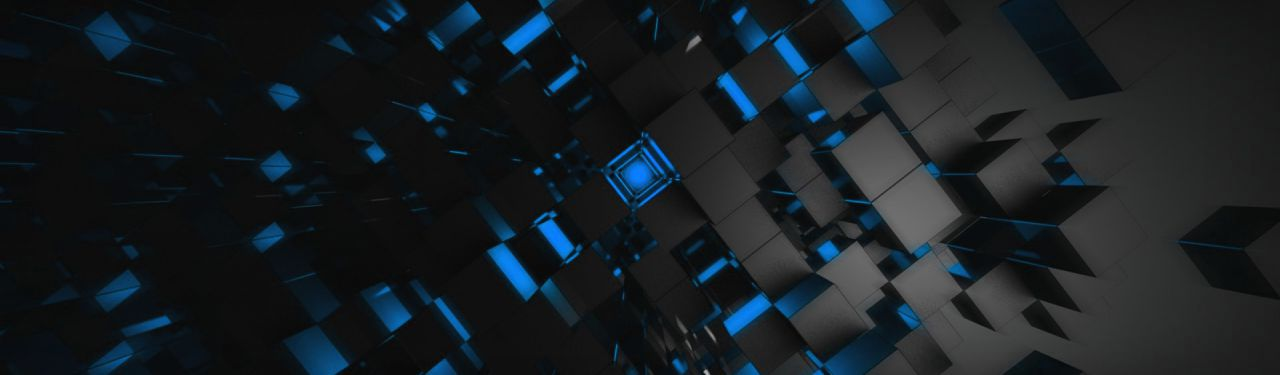
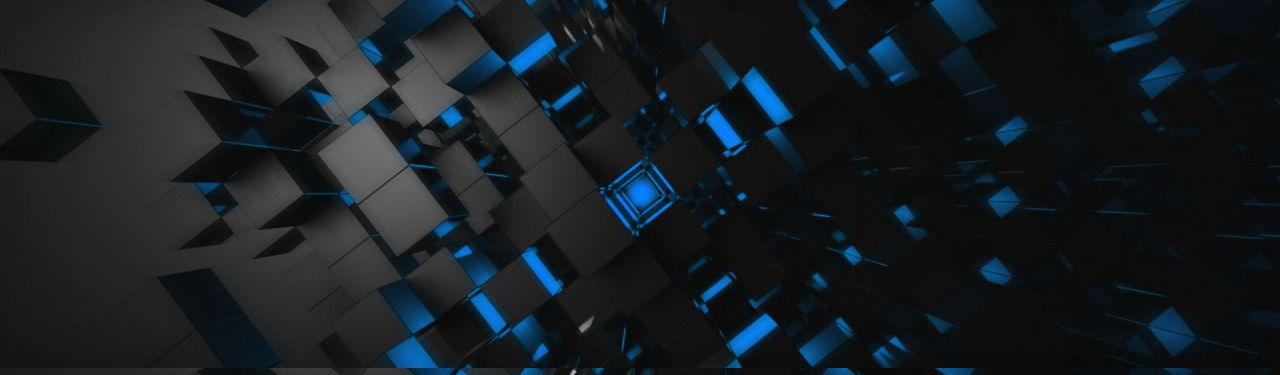
cambio de imagen del header jumbotron cambio de estilos en la fuente de los nav y hovers

diff --git a/css/styles.css b/css/styles.css
@@ -12,34 +12,34 @@ body {
   border-color: #080808;
 }
 .navbar-inverse .navbar-brand {
-  color: #45C2C8;
+  color: #FFFFFF;
 }
-.navbar-inverse .navbar-brand:hover,
-.navbar-inverse .navbar-brand:focus {
-  color: #fff;
-  background-color: transparent;
+.navbar-inverse .navbar-brand:hover
+ {
+  color: #FFF;
+  background-color: #3671B2;
 }
 .navbar-inverse .navbar-text {
   color: #9d9d9d;
 }
 .navbar-inverse .navbar-nav > li > a {
-  color: #9d9d9d;
+  color: #F7E9E9;
 }
-.navbar-inverse .navbar-nav > li > a:hover,
-.navbar-inverse .navbar-nav > li > a:focus {
-  color: #fff;
-  background-color: transparent;
+.navbar-inverse .navbar-nav > li > a:hover
+{
+  color: #FFF;
+  background-color: #3671B2;
 }
 .navbar-inverse .navbar-nav > .active > a,
 .navbar-inverse .navbar-nav > .active > a:hover,
 .navbar-inverse .navbar-nav > .active > a:focus {
-  color: #fff;
-  background-color: #080808;
+  color: #FFF;
+  background-color: #3671B2;
 }
 .navbar-inverse .navbar-nav > .disabled > a,
 .navbar-inverse .navbar-nav > .disabled > a:hover,
 .navbar-inverse .navbar-nav > .disabled > a:focus {
-  color: #444;
+  color: #908787;
   background-color: transparent;
 }
 .navbar-inverse .navbar-toggle {
@@ -112,26 +112,13 @@ fieldset[disabled] .navbar-inverse .btn-link:focus {
 
 /*Jumbotron*/
 .jumbotron{
-  background: url("../img/header2.jpg") no-repeat;
+  background: url("../img/header3.jpg") no-repeat;
 	color:#fff;
 	padding: 50px 10px;
   height: 375px;
-  background-size: 1425px;
+  background-size: cover;
 }
 .jumbotron h1,p{
 	
-	padding-left: 60px;
-}
-
-@media (max-width: 480px) {
-   .jumbotron {
-        background: #76C028;
-    }
-}
-
-/* Imagen utilizada en pantallas de anchura 768 px y superior */
-@media (max-width: 900px) {
-    .jumbotron {
-        background: #76C028;
-    }
+	/*padding-left: 60px;*/
 }

diff --git a/index.html b/index.html
@@ -13,7 +13,6 @@
 	<header>
 		<nav class="navbar navbar-inverse navbar-fixed-top">
 	  		<div class="container-fluid">
-	   			 <!-- Brand and toggle get grouped for better mobile display -->
 	    		<div class="navbar-header">
 		     		 <button type="button" class="navbar-toggle collapsed" data-toggle="collapse" data-target="#miNav" aria-expanded="false">
 		        	<span class="sr-only">Desplegar Menu</span>
@@ -23,13 +22,11 @@
 		      		</button>
 		      		<a class="navbar-brand" href="#">ALR Dev</a>
 	    		</div>
-
-	   			<!-- Collect the nav links, forms, and other content for toggling -->
 	    		<div class="collapse navbar-collapse" id="miNav">
 		      		<ul class="nav navbar-nav">
 			       		<li><a href="#">Articulos</a></li>
 			        	<li><a href="#">Recomendaciones</a></li>
-			        	<li class="disabled"><a href="#">Contacto(Proximamnete)</a></li>
+			        	<li class="disabled"><a href="#">Contacto(Proximamente)</a></li>
 		      		</ul>
 	    		</div><!-- /.navbar-collapse -->
   			</div><!-- /.container-fluid -->
@@ -39,8 +36,8 @@
 
 		<div class="jumbotron">
 			<div class="container">
-				<h1>ALR Dev</h1>
-				<p>By Alejandro Rangel</p>
+				<h1 class="text-center">ALR Dev</h1>
+				<p class="text-center">By Alejandro Rangel</p>
 			</div>
 		</div>
 	</header>
@@ -50,56 +47,7 @@
 	<footer>
 		
 	</footer>
-	<br>
-	<br>
-	<br>
-	<br>
-	<br>
-	<br>
-	<br>
-	<br>
-	<br>
-	<br>
-	<br>
-	<br>
-	<br>
-	<br>
-	<br>
-	<br>
-	<br>
-	<br>
-	<br>
-	<br>
-	<br>
-	<br>
-	<br>
-	<br>
-	<br>
-	<br>
-	<br>
-	<br>
-	<br>
-	<br>
-	<br>
-	<br>
-	<br>
-	<br>
-	<br>
-	<br>
-	<br>
-	<br>
-	<br>
-	<br>
-	<br>
-	<br>
-	<br>
-	<br>
-	<br>
-	<br>
-	<br>
-	<br>
-	<br>
-	<br>
+	
 
 	<script src="js/jquery-1.12.3.min.js"></script>
 	<script src="js/bootstrap.min.js"></script>
